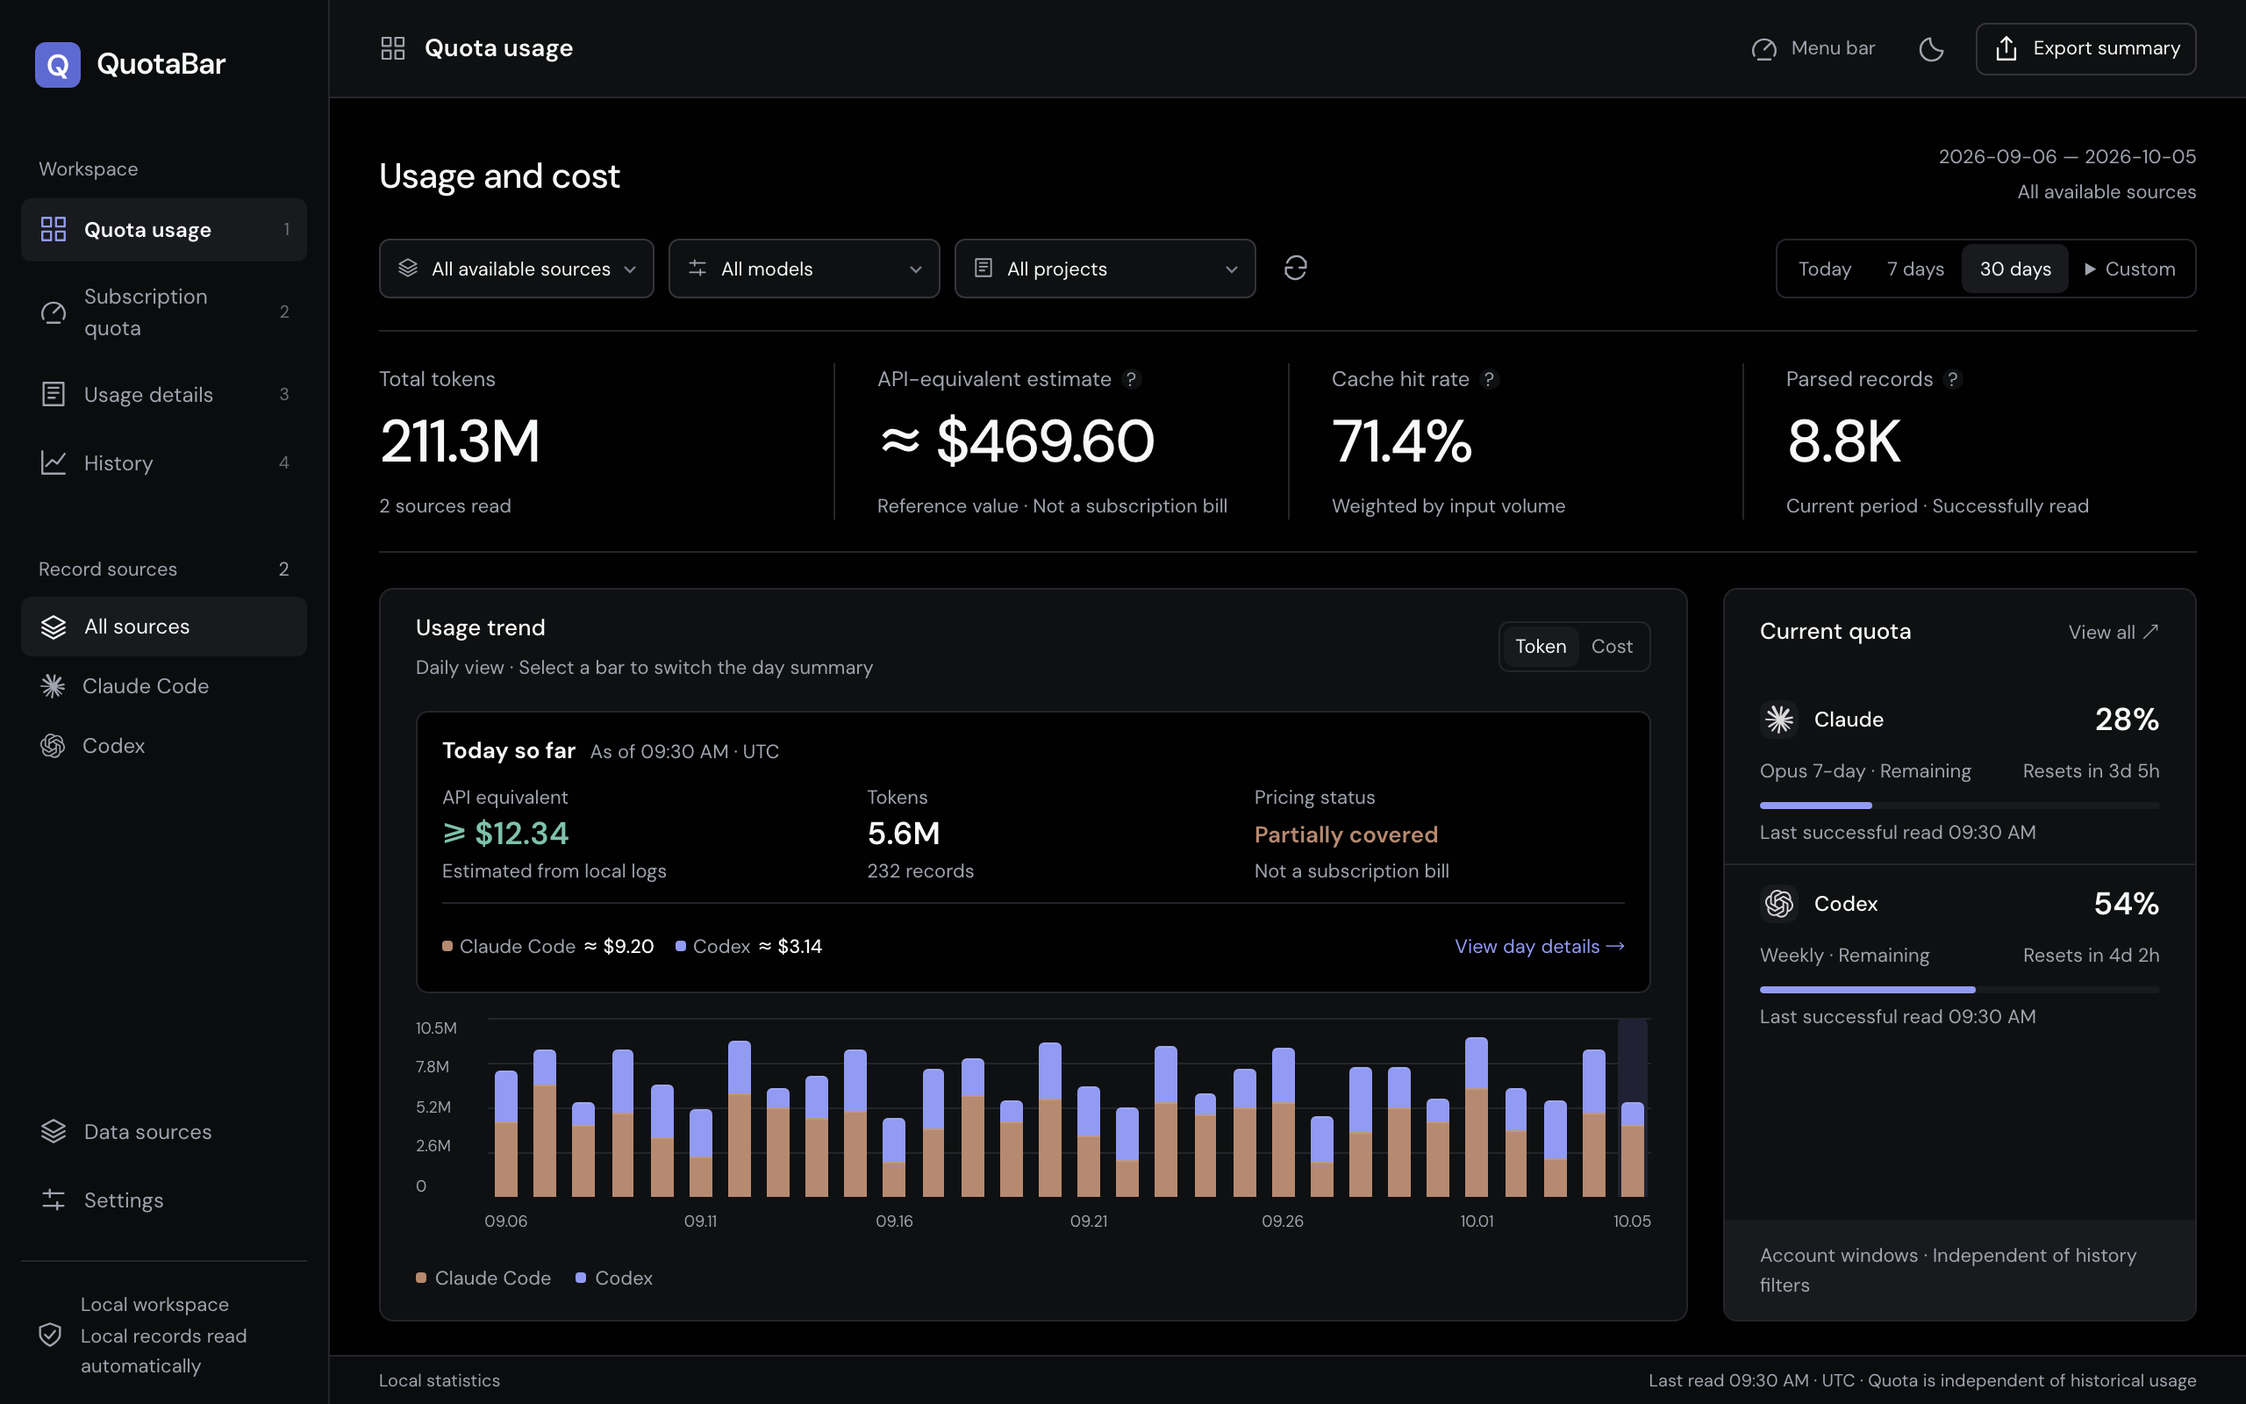
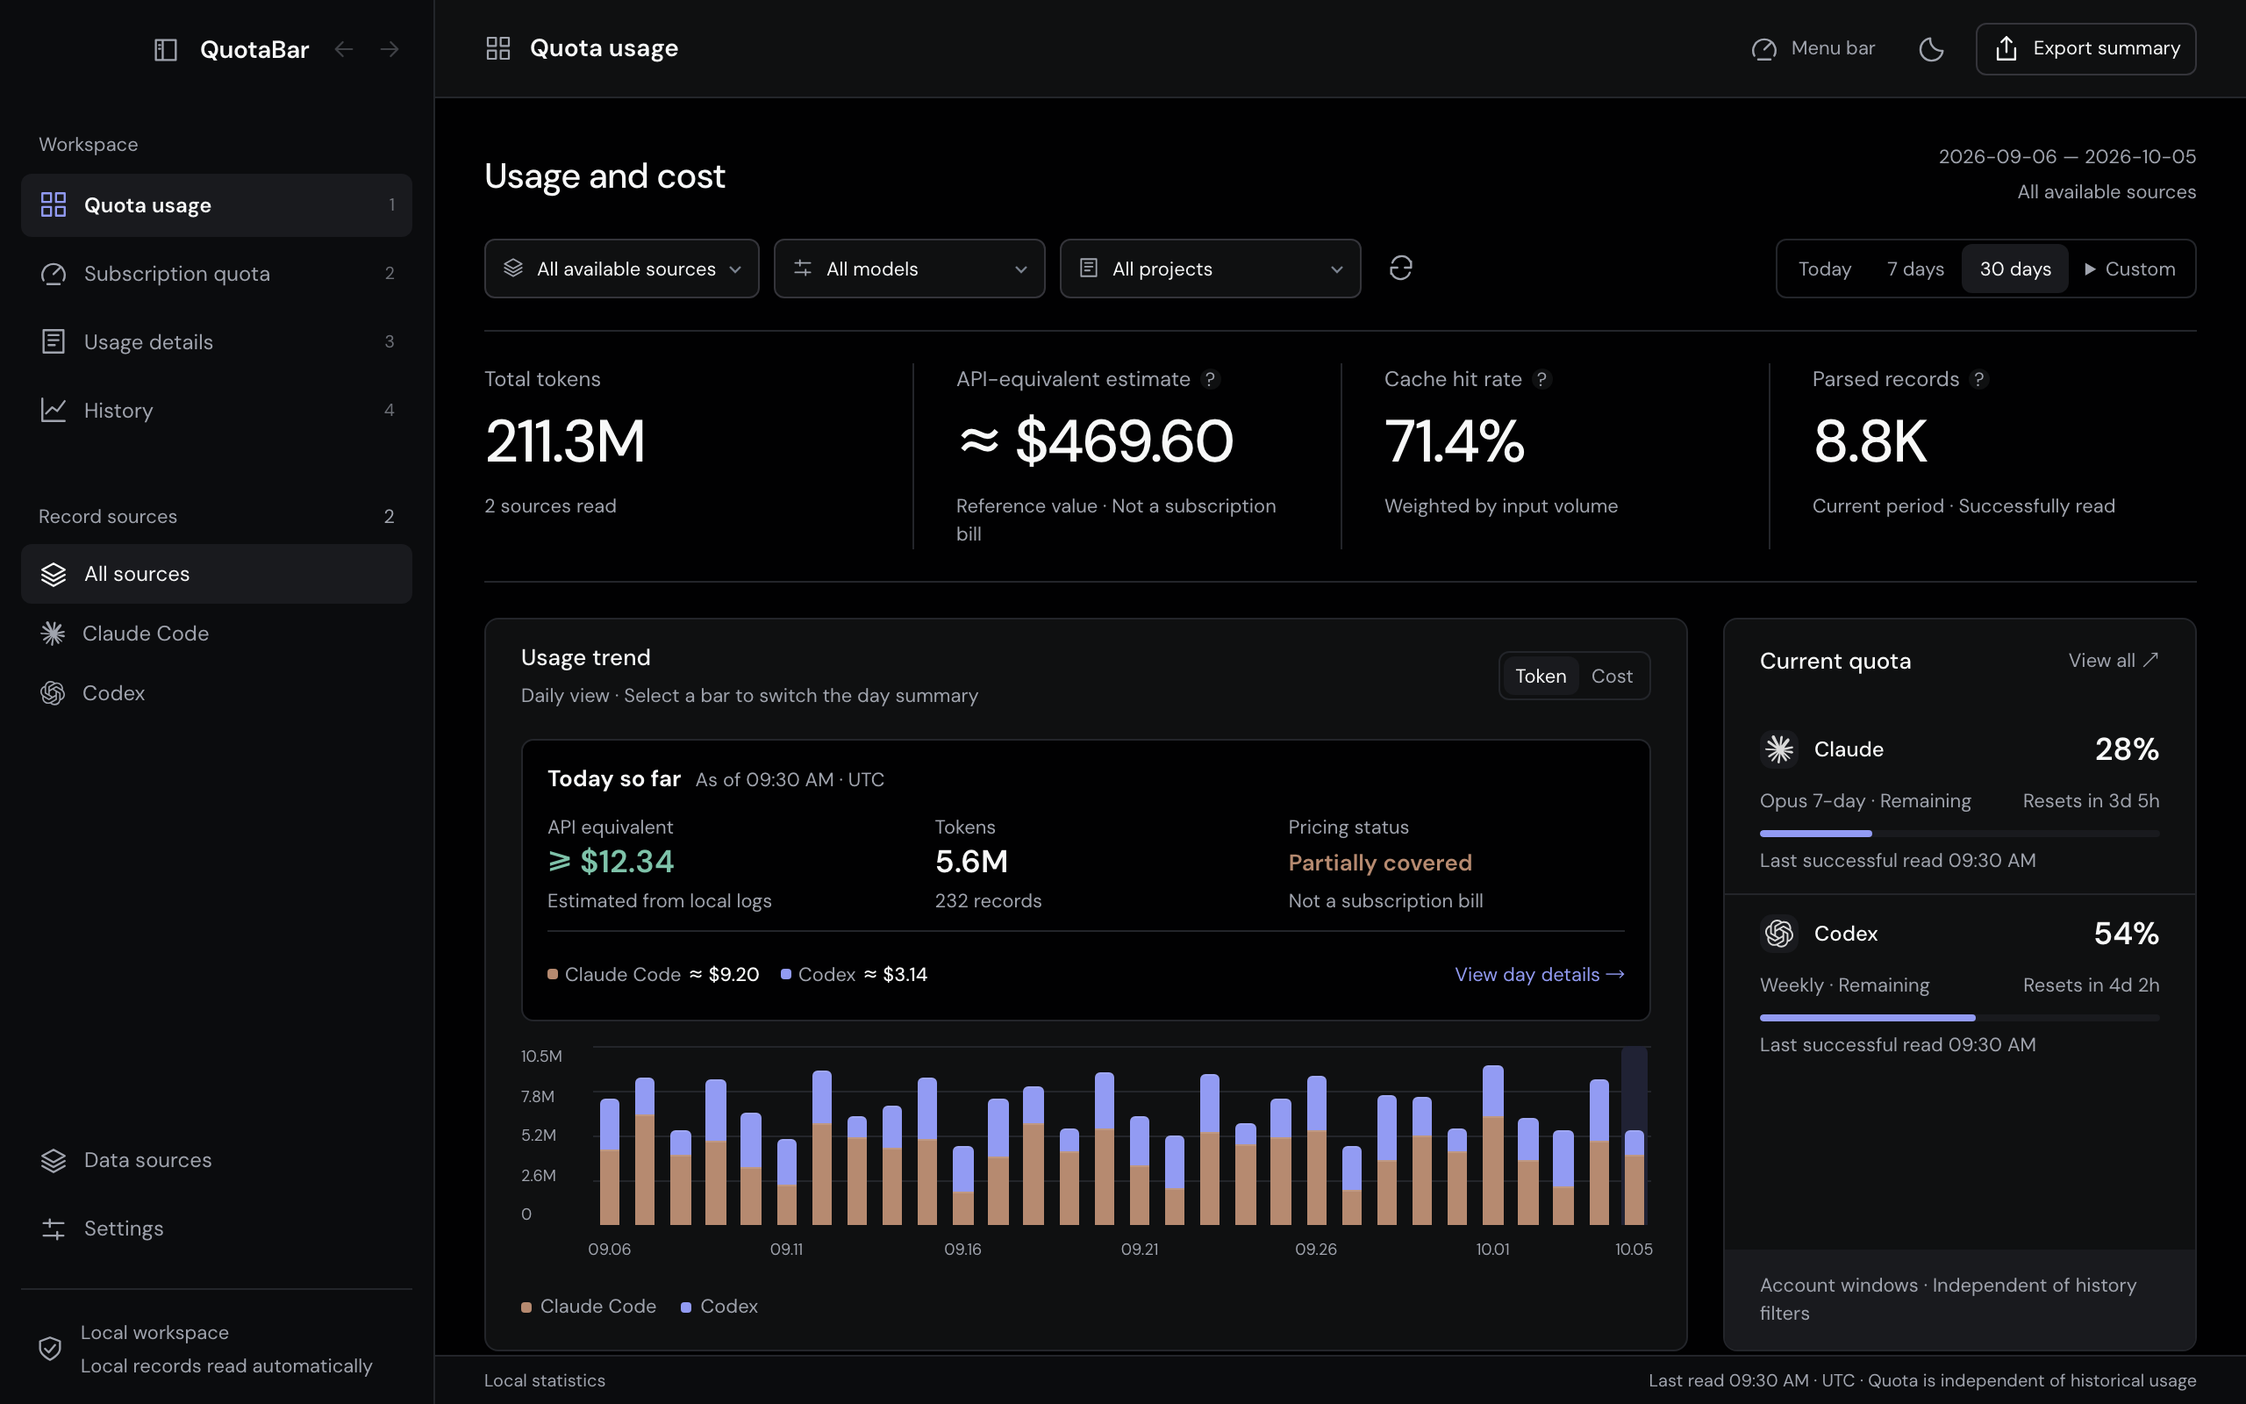
fix(analysis): explain output speed measurements in 0.7.2
Clarify the median, first-token wait and reasoning-token basis beside output speed so users do not mistake log-derived throughput for a model benchmark.

Agent-Session: codex 01a1aca4-9720-78e3-8e3f-950a8a743de1
Agent-Prompt: 2026-11-06T02:56:48.934Z

diff --git a/src/components/OverviewPanel.tsx b/src/components/OverviewPanel.tsx
@@ -112,9 +112,27 @@ const speedLabel = (value: number) => `${value.toFixed(1)} tok/s`;
 const sessionSpeedLabel = (speed: AnalysisSpeed) => speed.status === 'measured' ? speedLabel(speed.median_tokens_per_second) : '—';
 const unavailableSpeedReason = (speed: AnalysisSpeed) => speed.status === 'unavailable' && speed.reason === 'unsupported_source' ? t("This source does not record per-response timing.") : t("No speed records for this session.");
 
+function OutputSpeedHint() {
+  const id = useId();
+  const trigger = useRef<HTMLButtonElement>(null);
+  const tooltip = useRef<HTMLSpanElement>(null);
+  const show = () => {
+    if (!trigger.current || !tooltip.current) return;
+    const anchor = trigger.current.getBoundingClientRect();
+    tooltip.current.showPopover();
+    const box = tooltip.current.getBoundingClientRect();
+    tooltip.current.style.left = `${Math.max(8, Math.min(anchor.right - box.width, window.innerWidth - box.width - 8))}px`;
+    tooltip.current.style.top = `${anchor.bottom + box.height + 8 < window.innerHeight ? anchor.bottom + 6 : Math.max(8, anchor.top - box.height - 6)}px`;
+  };
+  return <span className="output-speed-hint" onMouseEnter={show} onMouseLeave={() => { if (document.activeElement !== trigger.current) tooltip.current?.hidePopover(); }}>
+    <button ref={trigger} type="button" className="output-speed-hint-trigger" aria-label={t("About output speed")} aria-describedby={id} onFocus={show} onBlur={() => tooltip.current?.hidePopover()} onClick={show}>!</button>
+    <span ref={tooltip} id={id} role="tooltip" popover="auto" className="output-speed-tooltip">{t("Speed is the median of tokens per second for each measured response. It includes time to first token and recorded reasoning tokens. Claude Code and Codex use different log timing, so this is not a direct model benchmark.")}</span>
+  </span>;
+}
+
 export function SessionSpeedDetail({ speed }: { speed: AnalysisSpeed }) {
   return <>
-    <dl className="workspace-detail-rows"><div><dt>{t("Output speed (median)")}</dt><dd>{sessionSpeedLabel(speed)}</dd></div>
+    <dl className="workspace-detail-rows"><div><dt>{t("Output speed (median)")} <OutputSpeedHint /></dt><dd>{sessionSpeedLabel(speed)}</dd></div>
       {speed.status === 'measured' && speed.models.map((model) => <div key={model.model}><dt>{model.model}</dt><dd>{speedLabel(model.median_tokens_per_second)} · {t("{p0} responses", { p0: number(model.measured_responses) })}</dd></div>)}</dl>
     <p>{speed.status === 'measured' ? t("Measured {p0} responses; {p1} excluded because their timing or output is incomplete.", { p0: number(speed.measured_responses), p1: number(speed.excluded_responses) }) : unavailableSpeedReason(speed)}{" "}{t("Speed is output tokens divided by the time from the prompt or tool result to the response's last output, including time to first token.")}</p>
   </>;
@@ -261,7 +279,7 @@ function SessionLedger({ report, compact = false, search = '', onExplore }: { re
   const visible = matching.slice(0, compact ? 4 : limit);
   return <section className="analysis-section workspace-sessions"><header><div><h2>{compact ? t("Recent work") : t("Session details")}</h2>{!compact && <p>{t("Titles and usage from source records · Custom names stay on this device")}</p>}</div>{compact ? <button onClick={onExplore}>{t("All sessions ↗")}</button> : <div className="analysis-actions"><select aria-label={t("Filter session projects")} value={project} onChange={(e) => { setProject(e.target.value); setLimit(20); }}><option value="all">{t("All projects")}</option>{[...new Map(rows.map((row) => [row.project.project_path, row.project.project_name])).entries()].map(([path, name]) => <option key={path} value={path}>{name}</option>)}</select><select aria-label={t("Session sort order")} value={sort} onChange={(e) => setSort(e.target.value)}><option value="recent">{t("Recent activity ↓")}</option><option value="tokens">{t("By usage ↓")}</option></select></div>}</header>
     {report.projects.filter((group) => group.session_titles_error).map((group) => <p className="analysis-error" role="alert" key={group.source_name}>{group.display_name} {t("Could not read titles:")}{" "}{group.session_titles_error}</p>)}
-    <div className="analysis-table-wrap"><table><thead><tr><th>{t("Session / project")}</th><th>{t("Source")}</th><th>Tokens</th><th>{t("Cache hit")}</th><th>{t("Output speed")}</th><th>{t("API equivalent / recorded cost")}</th></tr></thead><tbody>{visible.map((row) => <tr key={row.id}><td><button className="workspace-session-link" onClick={() => setSelected(row.id)}>{row.saved.title ?? row.title?.text ?? `${row.project.project_name} · ${row.session.session_id.slice(0, 8)}`}</button><small>{row.project.project_name} · {new Date(row.session.last_timestamp).toLocaleString(getLocale())}</small>{row.saved.error && <small role="alert">{row.saved.error}</small>}</td><td><span className="workspace-source-pill"><span className="workspace-source-glyph" style={{ color: sourceColor(row.source) }}><SourceIcon source={row.source} /></span>{row.sourceLabel}</span></td><td title={number(row.session.metrics.tokens.total_tokens)}>{compactNumber(row.session.metrics.tokens.total_tokens)}</td><td className="workspace-cache">{row.session.metrics.tokens.cache_hit_rate === null ? '—' : `${row.session.metrics.tokens.cache_hit_rate.toFixed(1)}%`}</td><td title={row.session.output_speed.status === 'measured' ? t("Median output tokens per second per response") : unavailableSpeedReason(row.session.output_speed)}>{sessionSpeedLabel(row.session.output_speed)}</td><td>{analysisCostLabel(row.session.metrics)}</td></tr>)}</tbody></table></div>
+    <div className="analysis-table-wrap"><table><thead><tr><th>{t("Session / project")}</th><th>{t("Source")}</th><th>Tokens</th><th>{t("Cache hit")}</th><th>{t("Output speed")} <OutputSpeedHint /></th><th>{t("API equivalent / recorded cost")}</th></tr></thead><tbody>{visible.map((row) => <tr key={row.id}><td><button className="workspace-session-link" onClick={() => setSelected(row.id)}>{row.saved.title ?? row.title?.text ?? `${row.project.project_name} · ${row.session.session_id.slice(0, 8)}`}</button><small>{row.project.project_name} · {new Date(row.session.last_timestamp).toLocaleString(getLocale())}</small>{row.saved.error && <small role="alert">{row.saved.error}</small>}</td><td><span className="workspace-source-pill"><span className="workspace-source-glyph" style={{ color: sourceColor(row.source) }}><SourceIcon source={row.source} /></span>{row.sourceLabel}</span></td><td title={number(row.session.metrics.tokens.total_tokens)}>{compactNumber(row.session.metrics.tokens.total_tokens)}</td><td className="workspace-cache">{row.session.metrics.tokens.cache_hit_rate === null ? '—' : `${row.session.metrics.tokens.cache_hit_rate.toFixed(1)}%`}</td><td title={row.session.output_speed.status === 'measured' ? t("Median output tokens per second per response") : unavailableSpeedReason(row.session.output_speed)}>{sessionSpeedLabel(row.session.output_speed)}</td><td>{analysisCostLabel(row.session.metrics)}</td></tr>)}</tbody></table></div>
     {!matching.length && <p className="analysis-empty">{search || project !== 'all' ? t("No matching sessions. Try clearing the filters.") : t("No session attribution for this source; model usage and history are still available.")}</p>}
     <div className="workspace-table-footer"><span>{visible.length} / {matching.length} {t("sessions")}</span>{!compact && matching.length > limit ? <button onClick={() => setLimit((value) => value + 20)}>{t("Load more ↓")}</button> : <span>{t("Estimated costs are not subscription bills")}</span>}</div>
     <dialog className="workspace-dialog" ref={dialog} onCancel={() => setSelected(null)} onClick={(e) => { if (e.target === e.currentTarget) { const rect = e.currentTarget.getBoundingClientRect(); if (e.clientX < rect.left || e.clientX > rect.right || e.clientY < rect.top || e.clientY > rect.bottom) setSelected(null); } }} aria-label={t("Session details")}>

diff --git a/src/styles/workspace.css b/src/styles/workspace.css
@@ -1,4 +1,46 @@
 /* Full analysis window. Scoped to avoid changing the provider popover. */
+.output-speed-hint {
+  display: inline-flex;
+  vertical-align: middle;
+}
+.analysis-app .output-speed-hint-trigger {
+  display: inline-flex;
+  align-items: center;
+  justify-content: center;
+  width: 18px;
+  height: 18px;
+  min-height: 18px;
+  padding: 0;
+  border: 1px solid var(--a-muted);
+  border-radius: 50%;
+  background: transparent;
+  color: var(--a-muted);
+  font-size: 11px;
+  font-weight: 650;
+  cursor: help;
+}
+.analysis-app .output-speed-hint-trigger:hover,
+.analysis-app .output-speed-hint-trigger:focus-visible {
+  color: var(--a-blue);
+  border-color: var(--a-blue);
+}
+.output-speed-tooltip {
+  position: fixed;
+  inset: auto;
+  margin: 0;
+  width: min(300px, calc(100vw - 16px));
+  padding: 12px 14px;
+  border: 1px solid var(--a-line);
+  border-radius: 10px;
+  background: var(--a-surface);
+  color: var(--a-text);
+  box-shadow: 0 8px 24px #0002;
+  font-size: 12px;
+  font-weight: 400;
+  line-height: 1.65;
+  text-align: left;
+  white-space: normal;
+}
 .analysis-app * {
   box-sizing: border-box;
 }

diff --git a/src/i18n/en.ts b/src/i18n/en.ts
@@ -760,6 +760,8 @@ export const en = {
   "Est. runs out ~{p0}, before reset": "Est. runs out ~{p0}, before reset",
   "{p0} {p1}: {p2}% left. {p3} still has {p4}% (resets {p5}).": "{p0} {p1}: {p2}% left. {p3} still has {p4}% (resets {p5}).",
   "{p0} {p1}: {p2}% left. {p3} still has {p4}%.": "{p0} {p1}: {p2}% left. {p3} still has {p4}%.",
+  "About output speed": "About output speed",
+  "Speed is the median of tokens per second for each measured response. It includes time to first token and recorded reasoning tokens. Claude Code and Codex use different log timing, so this is not a direct model benchmark.": "Speed is the median of tokens per second for each measured response. It includes time to first token and recorded reasoning tokens. Claude Code and Codex use different log timing, so this is not a direct model benchmark.",
   "Output speed": "Output speed",
   "Output speed (median)": "Output speed (median)",
   "Median output tokens per second per response": "Median output tokens per second per response",

diff --git a/src/i18n/zh-CN.ts b/src/i18n/zh-CN.ts
@@ -762,6 +762,8 @@ export const zhCN = {
   "Est. runs out ~{p0}, before reset": "预计约 {p0} 用完，早于重置",
   "{p0} {p1}: {p2}% left. {p3} still has {p4}% (resets {p5}).": "{p0} {p1}剩 {p2}%；{p3} 还剩 {p4}%（{p5} 重置）",
   "{p0} {p1}: {p2}% left. {p3} still has {p4}%.": "{p0} {p1}剩 {p2}%；{p3} 还剩 {p4}%",
+  "About output speed": "输出速度说明",
+  "Speed is the median of tokens per second for each measured response. It includes time to first token and recorded reasoning tokens. Claude Code and Codex use different log timing, so this is not a direct model benchmark.": "显示各次有效回复 Token/秒的中位数，包含首个 Token 等待时间和已记录的推理 Token。Claude Code 与 Codex 的日志计时方式不同，不能直接作为模型性能跑分。",
   "Output speed": "输出速度",
   "Output speed (median)": "输出速度（中位数）",
   "Median output tokens per second per response": "每次回复输出 Token/秒 的中位数",

diff --git a/tests/overview_cost_visibility.test.tsx b/tests/overview_cost_visibility.test.tsx
@@ -231,7 +231,7 @@ describe('Analysis window', () => {
     const speed = JSON.stringify(detail.findAllByType('dl').map((list) => list.findAllByType('dd').map((dd) => dd.children)));
     expect(speed).toContain('42.3 tok/s');
     expect(speed).toContain('3 responses');
-    expect(JSON.stringify(detail.findAllByType('dt').map((dt) => dt.children))).toContain('claude-opus-4-1');
+    expect(detail.findAllByType('dt').flatMap((dt) => dt.children.filter((child) => typeof child === 'string'))).toContain('claude-opus-4-1');
     await act(async () => renderer.root.findByProps({ 'aria-label': 'Close session details' }).props.onClick());
     await act(async () => click('All sessions ↗'));
     expect(renderer.root.findByProps({ 'aria-label': 'Session sort order' })).toBeDefined();

diff --git a/README.md b/README.md
@@ -77,7 +77,7 @@ See [product boundaries](PRODUCT.md) and [delivery status](docs/product/delivery
 
 ![QuotaBar desktop workspace overview with illustrative usage data](docs/assets/quotabar-demo-workspace-light.png)
 
-These screenshots show **illustrative data**. They were captured on 2026-10-11 from a production build of the QuotaBar `v0.6.0` React UI in Chromium, with a deterministic mock desktop backend injected by `scripts/capture_demo_screenshots.mjs`. The quota percentages, token totals, costs, projects and session titles are invented; no provider account, email, account id, token, cookie or local record was read. The mock only exists in that capture script and is not part of the app bundle. The screenshots show the interface, not native backend connectivity or signed/notarized artifacts. A dark workspace variant is in `docs/assets/quotabar-demo-workspace-dark.png`. See `docs/demo-proof.md` for the capture scope and refresh steps.
+These screenshots show **illustrative data**. They were captured on 2026-11-06 from a production build of the QuotaBar `v0.7.2` React UI in Chromium, with a deterministic mock desktop backend injected by `scripts/capture_demo_screenshots.mjs`. The quota percentages, token totals, costs, projects and session titles are invented; no provider account, email, account id, token, cookie or local record was read. The mock only exists in that capture script and is not part of the app bundle. The screenshots show the interface, not native backend connectivity or signed/notarized artifacts. A dark workspace variant is in `docs/assets/quotabar-demo-workspace-dark.png`. See `docs/demo-proof.md` for the capture scope and refresh steps.
 
 ## Quota Semantics
 

diff --git a/CHANGELOG.md b/CHANGELOG.md
@@ -4,6 +4,10 @@ All notable QuotaBar changes should be summarized here before a release is cut.
 
 ## Unreleased
 
+## 0.7.2 - 2026-11-06
+
+- Add a hover and keyboard-focus hint beside output speed in session lists and details. Explain that the median includes time to first token and recorded reasoning tokens, and that Claude Code and Codex timings are not a direct model benchmark.
+
 ## 0.7.1 - 2026-11-06
 
 - Fix the macOS menu-bar popover appearing near the bottom of the screen after upgrading to 0.7.0. Restrict Windows notification-overflow anchoring to Windows; macOS and Linux retain their native tray-icon positions. Windows taskbar positioning is unchanged.

diff --git a/docs/demo-proof.md b/docs/demo-proof.md
@@ -12,7 +12,7 @@ docs/assets/quotabar-demo-workspace-dark.png        desktop workspace overview, 
 
 All are captured at device scale factor 2.
 
-The current set was captured on 2026-10-11 for QuotaBar `v0.6.0` from a
+The current set was captured on 2026-11-06 for QuotaBar `v0.7.2` from a
 production Vite build of the React UI served by `vite preview` and rendered in
 headless Chromium.
 
